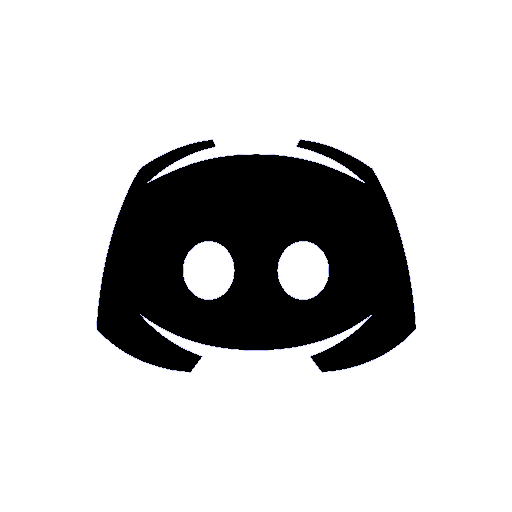
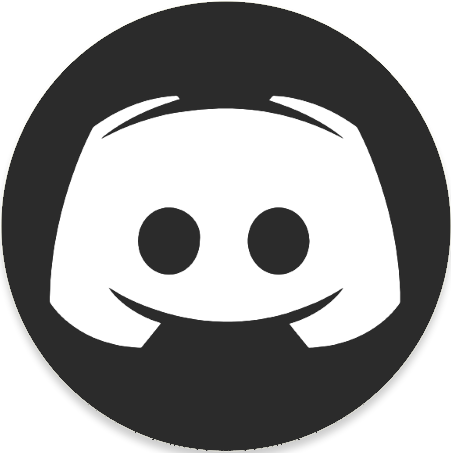
more discord tweaking

diff --git a/docs/_includes/ddb-table.html b/docs/_includes/ddb-table.html
@@ -52,7 +52,7 @@
         <div class="icon-wrap">
           <img class="d-icon t-{{d.recommended | escape }}" src="./img/rec.png" alt="recommended"/>
           <img class="d-icon t-{%- unless primers contains true-%}false{% endunless %}" src="./img/primer.png" alt="primer"/>
-          <img class="d-icon t-{% if d.discord-link == "" %}false{% endif %}" src="./img/newdiscord.png" alt="discord server"/>
+          <img class="d-icon t-{% if d.discord-link == "" %}false{% endif %}" src="./img/discord.png" alt="discord server"/>
         </div>
       </td>
     </tr>
@@ -69,7 +69,7 @@
           <div class="links">
             <a class="d-discord btn {% if d.discord-link == "" %}no-discord{% endif %}"
             {% if d.discord-link != "" %}href="{{d.discord-link | escape }}"{% endif %}>
-              <img class="d-icon ns" src="./img/discord.png" />
+              <img class="d-icon ns" src="./img/discord-server.png" />
               {% if d.discord-link == "" %}[No Discord Server]{% endif %}
               {{d.discord-title | escape }}
             </a>

diff --git a/docs/_layouts/main.html b/docs/_layouts/main.html
@@ -54,7 +54,7 @@ The main page of the cEDH decklist database
           <span>About the DDB</span>
         </a>
         <a id="nav-discord" target="_blank" href="https://discord.gg/BXPyu2P">
-          <img src="./img/newdiscord.png" alt="Discord icon">
+          <img src="./img/discord.png" alt="Discord icon">
         </a> 
       </nav>
         
@@ -87,7 +87,7 @@ The main page of the cEDH decklist database
                 <span>Primers</span>
               </li>
               <li id="discord-only" class="filter-option filter-inactive">
-                <img class="icon" src="./img/newdiscord.png" alt="Discord symbol"/>
+                <img class="icon" src="./img/discord.png" alt="Discord symbol"/>
                 <span>Discord Servers</span>
               </li>
             </ul>
